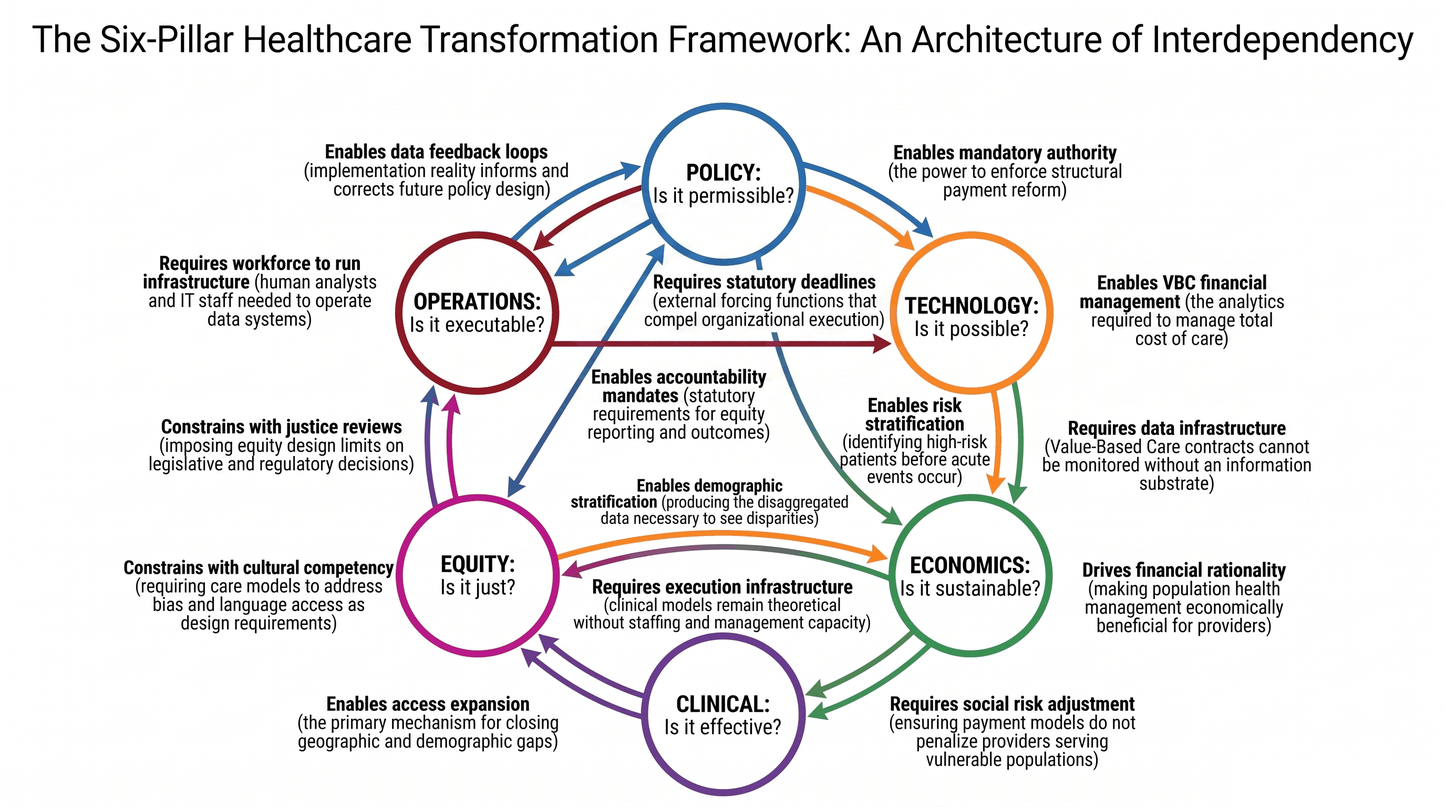
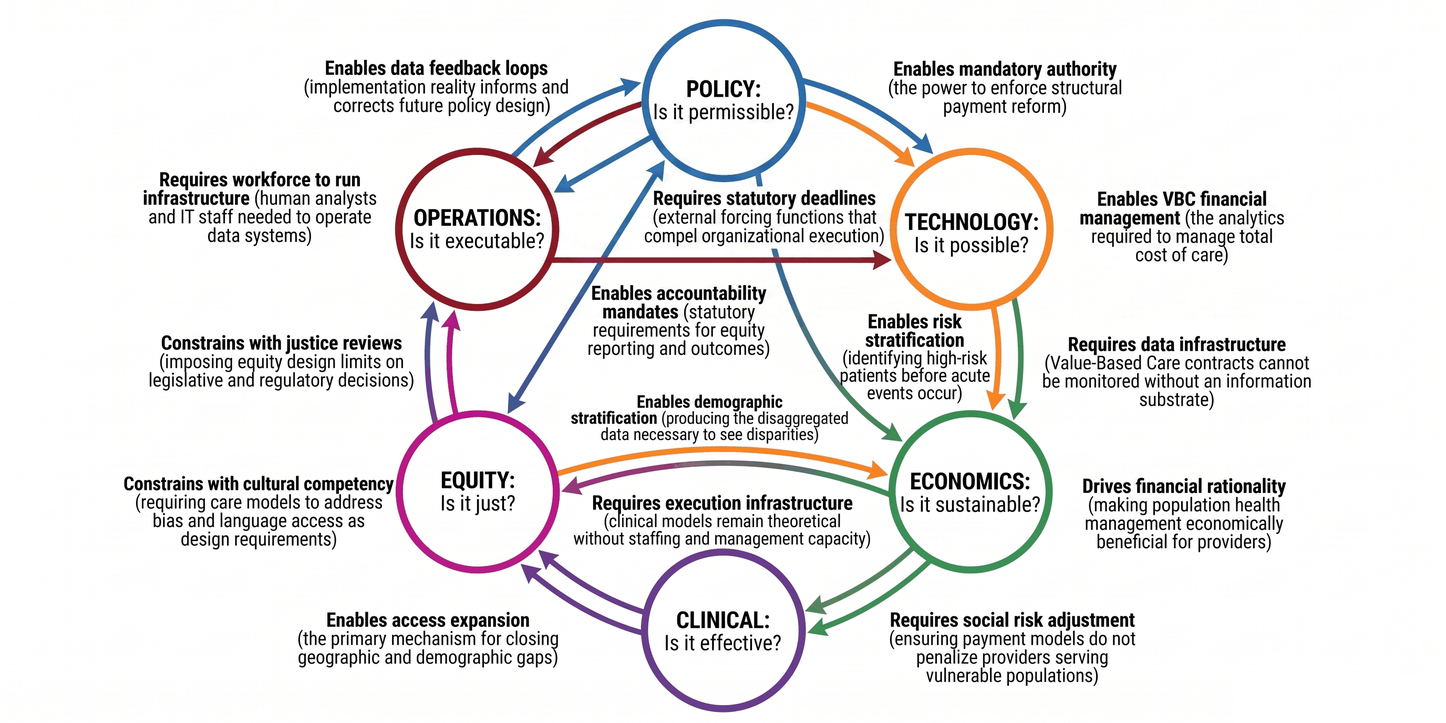
book: drop the cover art's own title and size it to bleed past the text column
Two changes, both requested by the author.

1. Remove the image's built-in title. "The Six-Pillar Healthcare Transformation
   Framework: An Architecture of Interdependency" duplicated the book title
   already printed above it and ate the vertical space the diagram needs.
   Measured on the source rather than guessed: the title band occupies y=46-114
   and the artwork starts at y~198, so the crop at 10.4% of height removes the
   text and leaves the diagram whole. prepare_cover.py then trims the
   surrounding whitespace so the art fills its own frame.

2. Make it bigger. add_cover() had been capping the picture at the text column
   (6.30in). A cover figure is not body text and need not respect that column,
   so it now bleeds 0.55in into each 1.10in side margin via negative paragraph
   indents, and the spacer above it drops from 30pt to 14pt. Height is bounded
   by the space left under the title block, so a taller export cannot run off
   the page.

Placed size 6.30in x 3.52in -> 7.40in x 3.70in, still 372 DPI.

Verified after rebuild: embedded image byte-identical to cover.png, table
widths 128/128, 0 callouts locked, 10 banners, manuscript 0 errors / 0 warnings.

Changed region(s): [[0.0, 0.0312, 0.9688, 0.968], [0.4688, 0.968, 0.5312, 0.9993]]

diff --git a/book-build/build_docx.py b/book-build/build_docx.py
@@ -19,6 +19,7 @@ import sys, subprocess, os, re, copy
 BODY_FONT = "Garamond"   # must match SERIF in make_reference.py
 from docx import Document
 from docx.shared import Pt, Inches, RGBColor
+from PIL import Image as PILImage          # cover sizing reads the art's aspect
 
 GRAY = RGBColor(0x40, 0x40, 0x40)   # Sources / citation grey
 from docx.oxml.ns import qn
@@ -1062,7 +1063,7 @@ def add_cover():
 
     # spacer -> centered image -> page break
     sp = _new_para_after(anchor)
-    sp.paragraph_format.space_after = Pt(30)   # breathing room, image lower on page
+    sp.paragraph_format.space_after = Pt(14)   # tight — the cover art needs the room
 
     last = sp
     if COVER and os.path.exists(COVER):
@@ -1071,9 +1072,31 @@ def add_cover():
         # Fill the full usable text width. At the old fixed 5.6in the cover
         # rendered small and soft on the page; the width is now derived from the
         # section so it tracks the margins instead of being guessed.
+        # The cover art is a figure, not body text, so it is not bound by the
+        # text column. Bleed it halfway into the side margins and let it run as
+        # tall as the space below the title block allows — the diagram's labels
+        # are only legible if the whole thing is large on the page.
         sec = doc.sections[0]
         usable = sec.page_width - sec.left_margin - sec.right_margin
-        img_p.add_run().add_picture(COVER, width=usable)
+        bleed = int(Inches(0.55))                      # per side, of a 1.10in margin
+        target_w = usable + 2 * bleed
+
+        with PILImage.open(COVER) as _c:
+            ar = _c.height / _c.width
+        # Vertical budget: page height, less top/bottom margins, less the title
+        # block and the spacer, less a little breathing room at the foot.
+        avail_h = int(sec.page_height - sec.top_margin - sec.bottom_margin
+                      - Inches(3.55))
+        if target_w * ar > avail_h:                    # too tall — fit to height
+            target_w = int(avail_h / ar)
+
+        run = img_p.add_run()
+        run.add_picture(COVER, width=target_w)
+        # Negative indents let the picture sit outside the text column.
+        over = (target_w - usable) // 2
+        if over > 0:
+            img_p.paragraph_format.left_indent = -over
+            img_p.paragraph_format.right_indent = -over
         last = img_p
 
     brk = _new_para_after(last)

diff --git a/book-build/prepare_cover.py b/book-build/prepare_cover.py
@@ -41,6 +41,25 @@ from PIL import ImageDraw
 ImageDraw.Draw(im).rectangle(
     [int(w * 0.855), int(h * 0.945), w, h], fill='white')
 
+# Drop the image's own title band. The page already carries the book title
+# above the figure, so "The Six-Pillar Healthcare Transformation Framework:
+# An Architecture of Interdependency" repeats it and costs vertical space the
+# diagram needs. Measured on the source: the title occupies y=46-114 and the
+# diagram starts at y~198, so cutting at y=160 removes the text and keeps the
+# artwork whole. Fractional so it survives a re-export at another size.
+im = im.crop((0, int(h * 0.104), w, h))
+
+# Trim the surrounding whitespace so the diagram fills the placed width instead
+# of floating inside its own margins — this is what makes it render bigger on
+# the page without changing the layout.
+from PIL import ImageChops
+bg = Image.new('RGB', im.size, 'white')
+box = ImageChops.difference(im, bg).getbbox()
+if box:
+    pad = int(min(im.size) * 0.012)
+    im = im.crop((max(0, box[0] - pad), max(0, box[1] - pad),
+                  min(im.width, box[2] + pad), min(im.height, box[3] + pad)))
+
 # Line art on flat white: a 256-colour palette is visually lossless here and
 # roughly halves the file, which matters because the image is embedded in the
 # .docx and round-trips through Google Docs.
